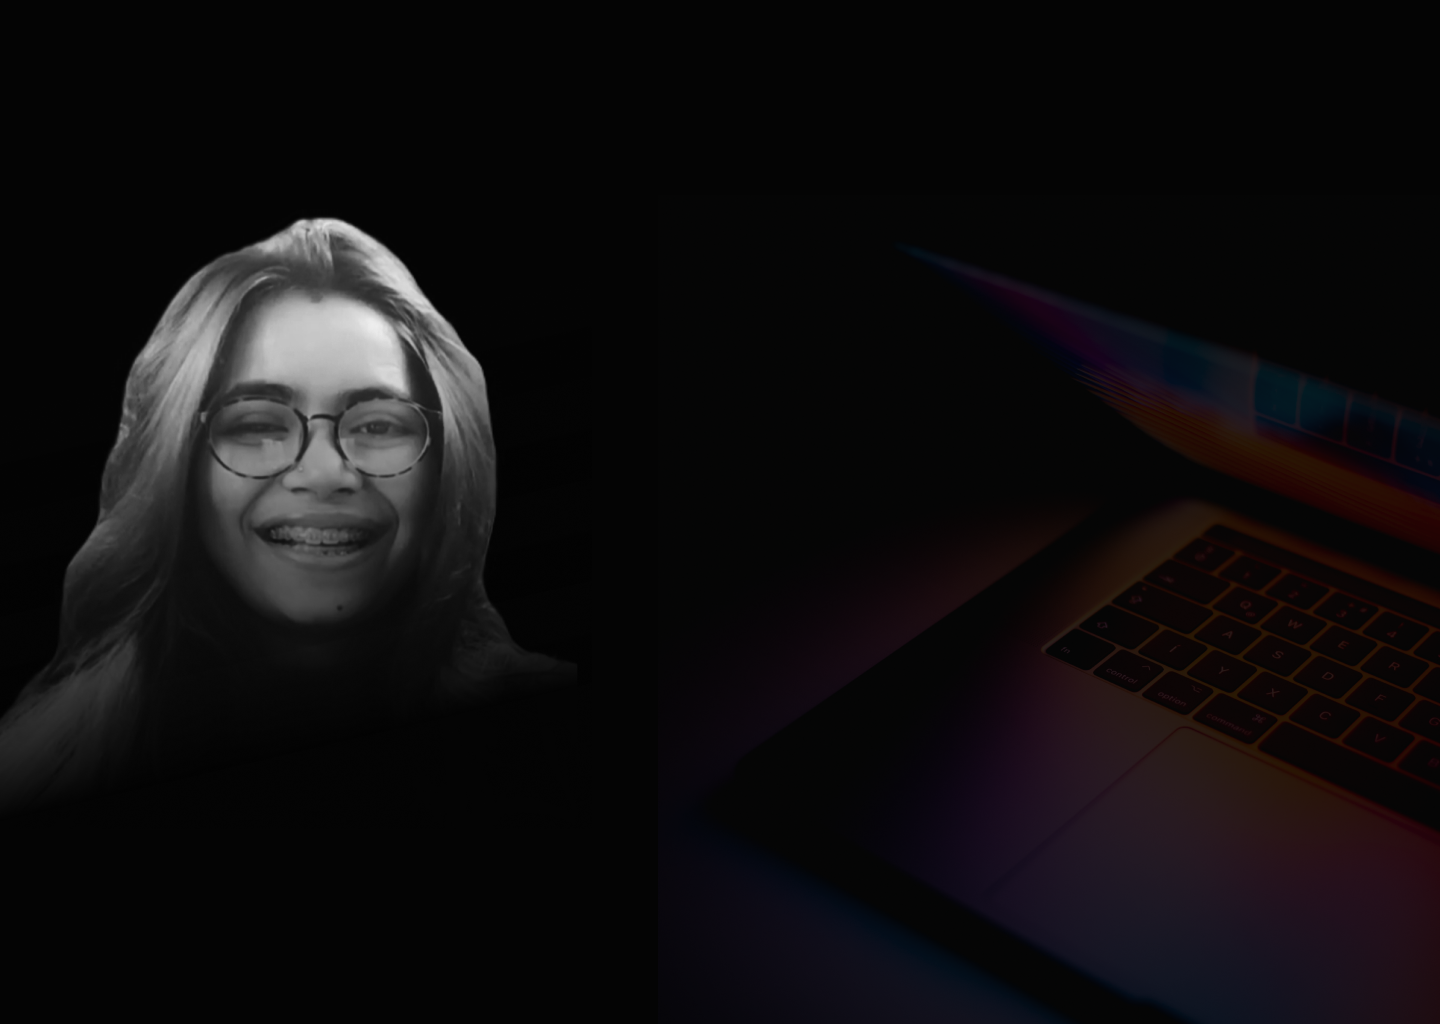
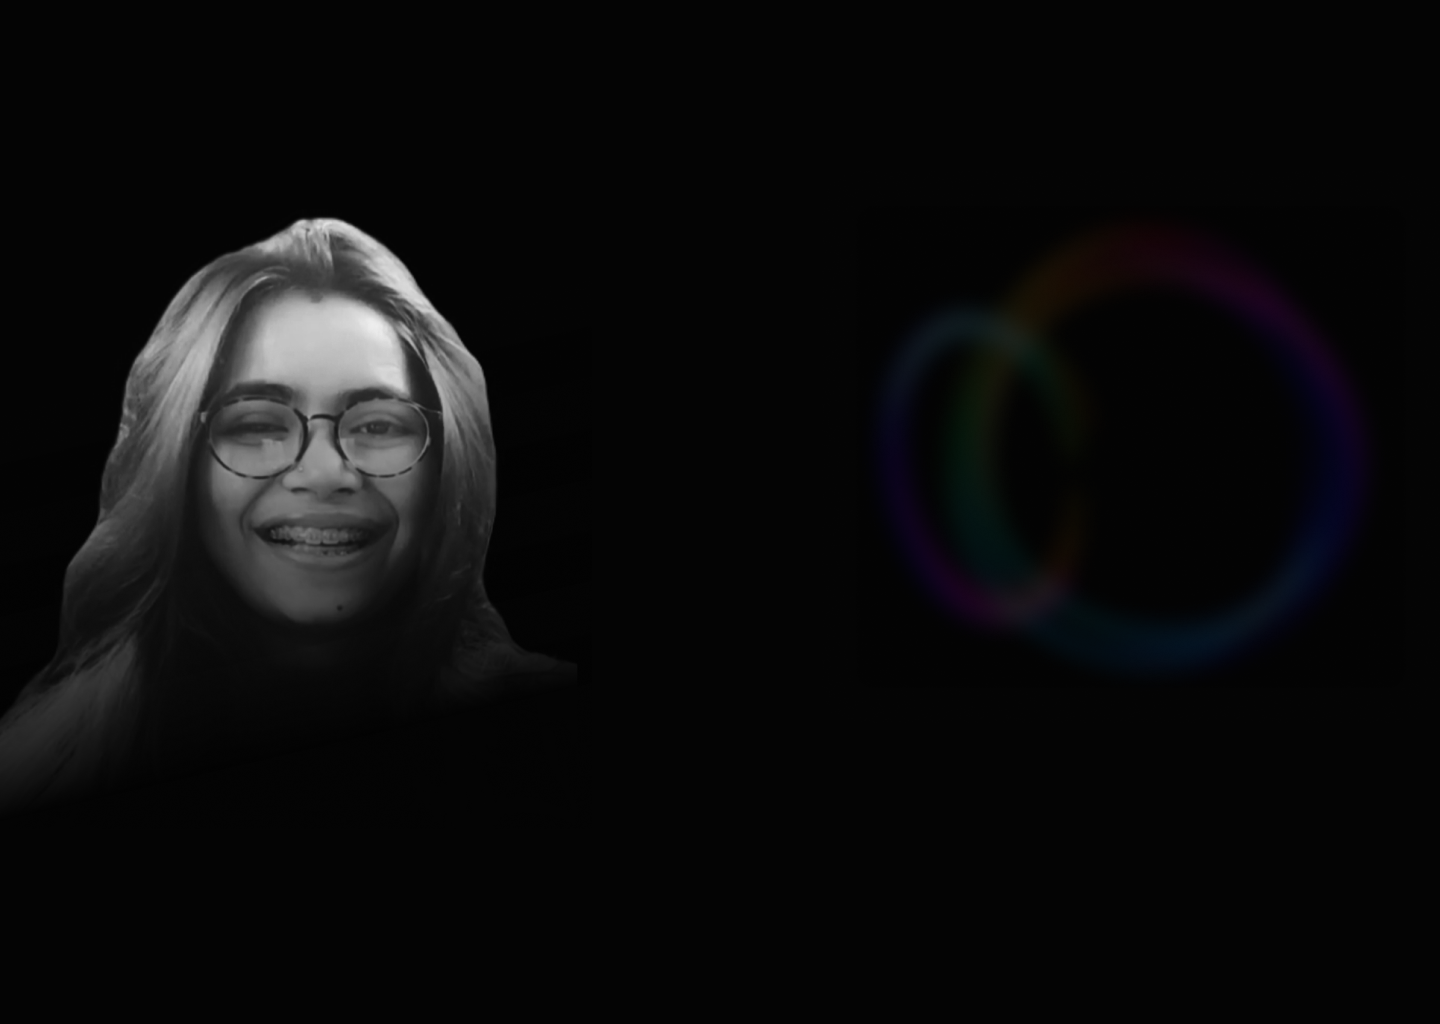
updated about me page

Changed region(s): [[0.6562, 0.2812, 1.0, 1.0], [0.625, 0.9375, 0.7188, 1.0], [0.6875, 0.3125, 0.7188, 0.3438]]

diff --git a/src/aboutMe.js b/src/aboutMe.js
@@ -176,28 +176,216 @@
 
 
 
-import React, {useRef, useEffect} from 'react';
+
+
+// import React, {useRef, useEffect} from 'react';
+// import { Link } from 'react-router-dom';
+// import {  Button, Container, Row, Col } from 'react-bootstrap';
+// import './aboutMe.css';
+// import Navbars from './navbar';
+// import teacher from './images/teacher.png';
+// import ux from './images/ux.png';
+// import dev from './images/dev.png';
+
+// function AboutMe() {
+//     const secondPageRef = useRef(null);
+//     const thirdPageRef = useRef(null);
+//     const paraRef = useRef(null);
+//     const iconRef = useRef(null);
+//     const captionRef = useRef(null);
+//     const arrowRef = useRef(null);
+//     const secondIconRef = useRef(null);
+//     const secondCaptionRef = useRef(null);
+//     const secondArrowRef = useRef(null);
+//     const thirdIconRef = useRef(null);
+//     const thirdCaptionRef = useRef(null);
+//     const lastParaRef = useRef(null);
+
+//     const scrollToSecondPage = () => {
+//         secondPageRef.current.scrollIntoView({behavior:'smooth'});
+//     }
+
+//     const scrollToSkills = () => {
+//         thirdPageRef.current.scrollIntoView({behavior:'smooth'})
+//     }
+
+//     const scrollToTop =() => {
+//         window.scrollTo({
+//             top:0,
+//             behavior: 'smooth'
+//         })
+//     }
+
+//     useEffect(() => {
+      
+//         paraRef.current.style.opacity = '1';
+//         paraRef.current.style.transform = 'translateY(0)';
+        
+//         setTimeout(() => {
+//             iconRef.current.style.opacity = '1';
+//             iconRef.current.style.transform = 'translateY(0)';
+//         }, 1000);
+
+//         setTimeout(() => {
+//             captionRef.current.style.opacity = '1';
+//             captionRef.current.style.transform = 'translateY(0)';
+//         }, 1200);
+
+//         setTimeout(() => {
+//             arrowRef.current.style.opacity = '1';
+//             arrowRef.current.style.transform = 'translateY(0)';
+//         }, 1400);
+
+//         setTimeout(() => {
+//             secondIconRef.current.style.opacity = '1';
+//             secondIconRef.current.style.transform = 'translateY(0)';
+//         }, 1600);
+
+//         setTimeout(() => {
+//             secondCaptionRef.current.style.opacity = '1';
+//             secondCaptionRef.current.style.transform = 'translateY(0)';
+//         }, 1800);
+
+//         setTimeout(() => {
+//             secondArrowRef.current.style.opacity = '1';
+//             secondArrowRef.current.style.transform = 'translateY(0)';
+//         }, 2000);
+
+//         setTimeout(() => {
+//             thirdIconRef.current.style.opacity = '1';
+//             thirdIconRef.current.style.transform = 'translateY(0)';
+//         }, 2200);
+
+//         setTimeout(() => {
+//             thirdCaptionRef.current.style.opacity = '1';
+//             thirdCaptionRef.current.style.transform = 'translateY(0)';
+//         }, 2400);
+
+//         setTimeout(() => {
+//             lastParaRef.current.style.opacity = '1';
+//             lastParaRef.current.style.transform = 'translateY(0)';
+//         }, 2600);
+     
+//     }, [])
+    
+
+//     return (
+//         <div className='body'>
+//         <div className='aboutMe'>
+//             <Navbars />
+//             <Container>
+//                 <Row>
+//                     <Col>
+//             <div className='content'>
+//                 <h3>Hi! I am Tina.</h3>
+//                 <p className='para' ref={paraRef}>I have just learnt how to center a Div and have been dying to show off!
+//                     <br></br>
+//                     I have evolved from an
+//                 </p>
+                
+//                 <figure className='image-group' >
+//                     <div className='image-container'>
+//                         <img src={teacher} alt='teacher icon' className='icon' ref={iconRef} />
+//                         <figcaption className='caption' ref={captionRef}>Educator</figcaption>
+//                     </div>
+//                     <span className='arrow' ref={arrowRef}></span>
+//                     <div className='image-container' >
+//                         <img src={ux} alt='ux icon' className='icon' ref={secondIconRef}/>
+//                         <figcaption className='caption' ref={secondCaptionRef}>UX Design</figcaption>
+//                     </div>
+//                     <span className='arrow' ref={secondArrowRef}></span>
+//                     <div className='image-container'>
+//                         <img src={dev} alt='developer icon' className='icon' ref={thirdIconRef}/>
+//                         <figcaption className='caption' ref={thirdCaptionRef}>Front-End Developer</figcaption>
+//                     </div>
+//                 </figure>
+//                 <p className='journey' ref={lastParaRef}>and what a journey it has been!</p>   
+//                 <Button onClick={scrollToSecondPage} className='scrollButton glow-on-hover'> More about me </Button> 
+//             </div>
+//             </Col>
+//           </Row>
+//         </Container>   
+//         </div>
+//         <div ref={secondPageRef} className='secondPage'>
+//         <Container>
+//           <Row>
+//             <Col>
+//                 <p className='interest'>
+//                    <h3 style={{marginBottom: '2rem'}}> What interests me besides coding you had asked? </h3>
+//                    <p> Well, a lot of things like watching TV, reading journals, and writing blogs do not interest me at all!</p>
+//                     <p> I like using exclamation marks, doodling, and imagining everything as cartoons in my head. I think everything looks better as a cartoon. Don't forget to check out my doodles!</p>
+//                <div className='buttonDiv'>
+//                 <Button onClick={scrollToSkills} className='skillButton  glow-on-hover'>Check out my skills</Button>
+//                 <Button  className='skillButton  glow-on-hover'><Link to="/projects" style={{color:'#929191', textDecoration:'none'}}>Check out my projects</Link></Button>
+//                 </div>
+//                 </p>
+//                 </Col>
+//           </Row>
+//         </Container>
+//             </div>
+            
+//             <div ref={thirdPageRef} className='skills'>
+//             <Container>
+//              <Row className='skillContainer'>
+//               <Col className='skillCol'>
+               
+//                 <ul className='skillUl'>
+//                     <h3>Skills</h3>
+//                     <li className='liStyle'>HTML</li>
+//                     <li className='liStyle'>CSS</li>
+//                     <li className='liStyle'>JavaScript</li>
+//                     <li className='liStyle'>React</li>  
+//                     <li className='liStyle'>Bootstrap</li> 
+//                     <li className='liStyle'>Angular</li>
+//                     <li className='liStyle'>Typescript</li>
+//                     <li className='liStyle'>ReactNative</li>
+//                     <li className='liStyle'>Nodejs</li>
+//                     <li className='liStyle'>Wireframing</li>
+//                     <li className='liStyle'>Prototyping</li>
+//                     <li className='liStyle'>Illustration</li>
+//                 </ul>
+//                 </Col>
+               
+//                <Col className='skillCol'>
+//                 <ul className='skillUl'>
+//                     <h3>Tools</h3>
+//                     <li className='liStyle'>VS Code</li>
+//                     <li className='liStyle'>Figma</li>
+//                     <li className='liStyle'>Adobe XD</li>
+//                     <li className='liStyle'>MongoDB</li>
+//                     <li className='liStyle'>SQL pgAdmin4</li>
+//                     <li className='liStyle'>Expo</li>
+//                 </ul>
+//                 </Col>
+//                </Row>
+//              </Container>
+//             </div>
+//             <Button onClick={scrollToTop} className='glow-on-hover' style={{margin:'1rem'}}>Back to top</Button>
+//         </div>
+//     );
+// }
+
+// export default AboutMe;
+
+
+
+
+
+
+
+
+
+import React, {useRef} from 'react';
 import { Link } from 'react-router-dom';
 import {  Button, Container, Row, Col } from 'react-bootstrap';
 import './aboutMe.css';
 import Navbars from './navbar';
-import teacher from './images/teacher.png';
-import ux from './images/ux.png';
-import dev from './images/dev.png';
+
 
 function AboutMe() {
     const secondPageRef = useRef(null);
     const thirdPageRef = useRef(null);
-    const paraRef = useRef(null);
-    const iconRef = useRef(null);
-    const captionRef = useRef(null);
-    const arrowRef = useRef(null);
-    const secondIconRef = useRef(null);
-    const secondCaptionRef = useRef(null);
-    const secondArrowRef = useRef(null);
-    const thirdIconRef = useRef(null);
-    const thirdCaptionRef = useRef(null);
-    const lastParaRef = useRef(null);
+   
 
     const scrollToSecondPage = () => {
         secondPageRef.current.scrollIntoView({behavior:'smooth'});
@@ -213,58 +401,6 @@ function AboutMe() {
             behavior: 'smooth'
         })
     }
-
-    useEffect(() => {
-      
-        paraRef.current.style.opacity = '1';
-        paraRef.current.style.transform = 'translateY(0)';
-        
-        setTimeout(() => {
-            iconRef.current.style.opacity = '1';
-            iconRef.current.style.transform = 'translateY(0)';
-        }, 1000);
-
-        setTimeout(() => {
-            captionRef.current.style.opacity = '1';
-            captionRef.current.style.transform = 'translateY(0)';
-        }, 1200);
-
-        setTimeout(() => {
-            arrowRef.current.style.opacity = '1';
-            arrowRef.current.style.transform = 'translateY(0)';
-        }, 1400);
-
-        setTimeout(() => {
-            secondIconRef.current.style.opacity = '1';
-            secondIconRef.current.style.transform = 'translateY(0)';
-        }, 1600);
-
-        setTimeout(() => {
-            secondCaptionRef.current.style.opacity = '1';
-            secondCaptionRef.current.style.transform = 'translateY(0)';
-        }, 1800);
-
-        setTimeout(() => {
-            secondArrowRef.current.style.opacity = '1';
-            secondArrowRef.current.style.transform = 'translateY(0)';
-        }, 2000);
-
-        setTimeout(() => {
-            thirdIconRef.current.style.opacity = '1';
-            thirdIconRef.current.style.transform = 'translateY(0)';
-        }, 2200);
-
-        setTimeout(() => {
-            thirdCaptionRef.current.style.opacity = '1';
-            thirdCaptionRef.current.style.transform = 'translateY(0)';
-        }, 2400);
-
-        setTimeout(() => {
-            lastParaRef.current.style.opacity = '1';
-            lastParaRef.current.style.transform = 'translateY(0)';
-        }, 2600);
-     
-    }, [])
     
 
     return (
@@ -276,28 +412,8 @@ function AboutMe() {
                     <Col>
             <div className='content'>
                 <h3>Hi! I am Tina.</h3>
-                <p className='para' ref={paraRef}>I have just learnt how to center a Div and have been dying to show off!
-                    <br></br>
-                    I have evolved from an
-                </p>
-                
-                <figure className='image-group' >
-                    <div className='image-container'>
-                        <img src={teacher} alt='teacher icon' className='icon' ref={iconRef} />
-                        <figcaption className='caption' ref={captionRef}>Educator</figcaption>
-                    </div>
-                    <span className='arrow' ref={arrowRef}></span>
-                    <div className='image-container' >
-                        <img src={ux} alt='ux icon' className='icon' ref={secondIconRef}/>
-                        <figcaption className='caption' ref={secondCaptionRef}>UX Student</figcaption>
-                    </div>
-                    <span className='arrow' ref={secondArrowRef}></span>
-                    <div className='image-container'>
-                        <img src={dev} alt='developer icon' className='icon' ref={thirdIconRef}/>
-                        <figcaption className='caption' ref={thirdCaptionRef}>Front-End Developer</figcaption>
-                    </div>
-                </figure>
-                <p className='journey' ref={lastParaRef}>and what a journey it has been!</p>   
+                <p style={{marginTop: '40px'}}>A front-End Developer with an insatiable appetite for creativity and a boundless curiosity about the magical realm of interaction design!</p>  
+                <p>I started my journey by creating educational content that could meet the different needs of students with varying abilities and learning levels. During this process, I discovered my ability to improve user experiences and interactions through design and technology. This led me to explore the world of UX design, and I quickly realized that my journey was far from over. Bringing my designs to life became my next goal, and I haven't looked back since.</p>
                 <Button onClick={scrollToSecondPage} className='scrollButton glow-on-hover'> More about me </Button> 
             </div>
             </Col>
@@ -310,8 +426,10 @@ function AboutMe() {
             <Col>
                 <p className='interest'>
                    <h3 style={{marginBottom: '2rem'}}> What interests me besides coding you had asked? </h3>
-                   <p> Well, a lot of things like watching TV, reading journals, and writing blogs do not interest me at all!</p>
-                    <p> I like using exclamation marks, doodling, and imagining everything as cartoons in my head. I think everything looks better as a cartoon. Don't forget to check out my doodles!</p>
+                    <p>I have a passion for teaching and enjoy creating educational content to share my knowledge. 
+                        I find it helpful to document my learning through cartoons, making it easier for me as well as new learners to understand and remember. I plan to share it with the wider audience in the coming days. 
+                    </p>
+                    <p>Recently, I started a series called "Learn With Me" on <a href='https://medium.com/@tinabhowal88'>Medium</a>, where I share my learnings. If you are interested in learning with me, please feel free to check it out!</p>
                <div className='buttonDiv'>
                 <Button onClick={scrollToSkills} className='skillButton  glow-on-hover'>Check out my skills</Button>
                 <Button  className='skillButton  glow-on-hover'><Link to="/projects" style={{color:'#929191', textDecoration:'none'}}>Check out my projects</Link></Button>

diff --git a/src/navbar.js b/src/navbar.js
@@ -49,14 +49,14 @@ function Navbars() {
               Contact
             </Nav.Link>
 
-            <Nav.Link
+            {/* <Nav.Link
               as={Link}
               to="/funfacts"
               onClick={() => handleNavClick('/funfacts')}
               className={location.pathname === '/funfacts' ? 'active' : ''}
               >
                 Doodles
-              </Nav.Link>
+              </Nav.Link> */}
 
           </Nav>
         </Navbar.Collapse>

diff --git a/src/aboutMe.css b/src/aboutMe.css
@@ -387,7 +387,7 @@
 } */
 
 .scrollButton{
-  margin-top:1.8rem;
+  margin-top:3rem;
 }
 
 .glow-on-hover {
@@ -610,12 +610,7 @@
     margin-top: -120px;
   }
   
-  .scrollButton{
-    margin:0rem;
-    margin-top: 1.5rem;
-    left: 15%;
-    transform: translate(-50%);
-  }
+ 
 
 
   .interest{
